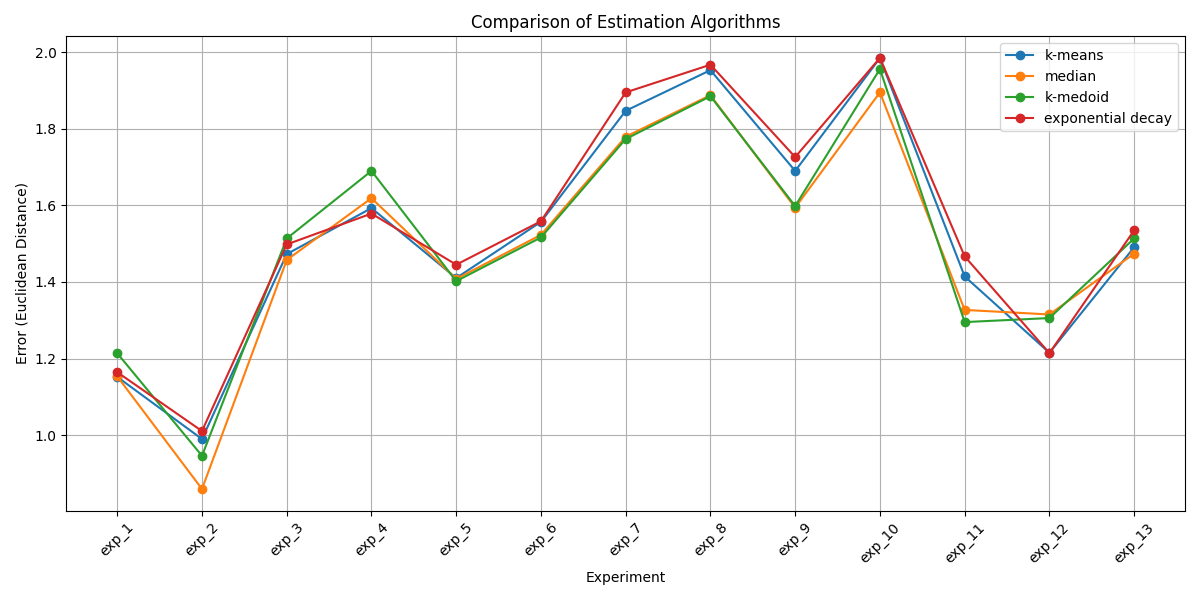
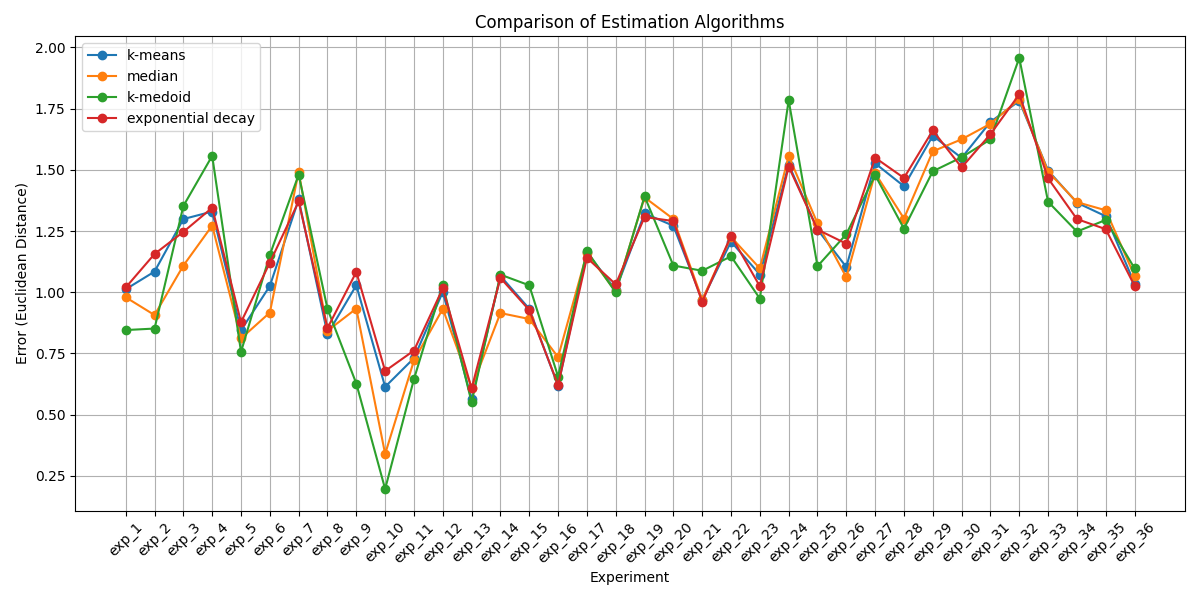
more graphs

diff --git a/pi-outserver/data_analysis_2/plotter.py b/pi-outserver/data_analysis_2/plotter.py
@@ -62,37 +62,83 @@ def run_all_algorithms(exp_dir, k=4, alpha=0.7, prev=None):
 
     return errors
 
-
-def plot_just_weighted(exp_dir, k=4):
-    """
-    Runs exponential decay (weighted mean) with varying P values from 1 to 4.
-    Plots error for each P.
-    """
+# experiment vs particular k or alpha
+def plot_weighted_error_vs_experiment(experiments, k=4, alpha=0.7):
     errors = {}
-    Ps = [1, 2, 3, 4]
 
-    for P in Ps:
+    for exp_dir in experiments:
         try:
-            estimate_weights, device = assign_weights_rssi(exp_dir, P=P)
+            estimate_weights, device = assign_weights_rssi(exp_dir, k=k, alpha=alpha)
             pred = weighted_mean(estimate_weights)
             err = distance(pred, device)
-            print(f"P={P}: Error = {err:.3f}")
-            errors[P] = err
+            print(f"{exp_dir}: Error = {err:.3f}")
+            errors[exp_dir] = err
         except Exception as e:
-            print(f"{exp_dir} - P={P} failed: {e}")
-            errors[P] = None
+            print(f"{exp_dir} failed: {e}")
+            errors[exp_dir] = None
+
+    # Prepare for plotting
+    valid_exps = [exp for exp in errors if errors[exp] is not None]
+    valid_errs = [errors[exp] for exp in valid_exps]
 
     # Plotting
-    plt.figure(figsize=(8, 5))
-    plt.plot(list(errors.keys()), list(errors.values()), marker='o', color='purple', label='Exponential Decay')
-    plt.title(f"Error vs P for Weighted Mean - {exp_dir}")
-    plt.xlabel("P value")
+    plt.figure(figsize=(12, 6))
+    plt.bar(valid_exps, valid_errs, color='darkorange')
+    plt.xticks(rotation=45)
+    plt.xlabel("Experiment")
     plt.ylabel("Error (Euclidean Distance)")
-    plt.grid(True)
-    plt.legend()
+    plt.title(f"Exponential Decay Error per Experiment (k={k}, alpha={alpha})")
+    plt.grid(True, axis='y')
     plt.tight_layout()
-    plt.savefig(f"weighted_error_{exp_dir}.png")
+    plt.savefig(f"graphset3/weighted_bar_k{k}_alpha{alpha}.png")
     plt.show()
+
+# mean of all experiments over multiple k and particular alpha
+def plot_mean_weighted_error_vs_k(experiments, k_range=range(4, 20), alpha=0.4):
+    """
+    Plots a bar graph of mean exponential decay error across all experiments for varying k values.
+
+    Args:
+        experiments (list): List of experiment names (e.g., ["exp_1", "exp_2", ...])
+        k_range (iterable): Range of k values to try (e.g., range(4, 31))
+        alpha (float): Alpha value for exponential decay weighting
+    """
+    mean_errors = {}
+
+    for k in k_range:
+        print(f"Running for k={k}")
+        errors = []
+        for exp_dir in experiments:
+            try:
+                estimate_weights, device = assign_weights_rssi(exp_dir, k=k, alpha=alpha)
+                pred = weighted_mean(estimate_weights)
+                err = distance(pred, device)
+                errors.append(err)
+            except Exception as e:
+                print(f"{exp_dir} failed at k={k}: {e}")
+                continue
+
+        if errors:
+            mean_errors[k] = np.mean(errors)
+        else:
+            mean_errors[k] = None
+
+    # Filter valid ks
+    valid_ks = [k for k in mean_errors if mean_errors[k] is not None]
+    mean_vals = [mean_errors[k] for k in valid_ks]
+
+    # Plotting
+    plt.figure(figsize=(12, 6))
+    plt.bar(valid_ks, mean_vals, color='mediumseagreen')
+    plt.xticks(valid_ks)
+    plt.xlabel("k (Number of Points)")
+    plt.ylabel("Mean Error (Euclidean Distance)")
+    plt.title(f"Mean Exponential Decay Error vs k (alpha={alpha})")
+    plt.grid(True, axis='y')
+    plt.tight_layout()
+    plt.savefig(f"graphset3/mean_weighted_error_vs_k_alpha{alpha}.png")
+    plt.show()
+
 
 def plot_errors(experiments, error_dicts):
     """
@@ -117,7 +163,7 @@ def plot_errors(experiments, error_dicts):
     plt.savefig(f"graphset2/Exponential Decay")
     # plt.show()
 
-def plot_errors_massive(experiments, error_dicts, k, number):
+def plot_errors_detailed(experiments, error_dicts, k, number):
     """
     Plots the line graph comparing algorithm performance.
     """
@@ -137,25 +183,81 @@ def plot_errors_massive(experiments, error_dicts, k, number):
     plt.grid(True)
     plt.legend()
     plt.tight_layout()
-    plt.savefig(f"graphset2/Exponential_Decay{k}_{number}.png")
+    plt.savefig(f"graphset3/Exponential_Decay{k}_{number}.png")
+    # plt.show()
+
+import numpy as np
+
+def plot_mean_std_bar(error_dicts, k, alpha):
+    """
+    Plots bar graphs for mean and std deviation of errors across different methods.
+
+    Args:
+        error_dicts (list of dict): List of {algorithm: error} for each experiment
+        k (int): Value of k used
+        alpha (float): Alpha used in exponential decay
+    """
+    methods = list(error_dicts[0].keys())
+    means = []
+    stds = []
+
+    for method in methods:
+        values = [d.get(method) for d in error_dicts if d.get(method) is not None]
+        means.append(np.mean(values))
+        stds.append(np.std(values))
+
+    x = np.arange(len(methods))
+
+    # --- Plot Mean Error ---
+    plt.figure(figsize=(10, 6))
+    plt.bar(x, means, color='skyblue')
+    plt.xticks(x, methods, rotation=45)
+    plt.ylabel("Mean Error (Euclidean Distance)")
+    plt.title(f"Mean Error per Method (k={k}, alpha={alpha})")
+    plt.tight_layout()
+    plt.savefig(f"graphset3/mean_error_k{k}_alpha{alpha}.png")
+    # plt.show()
+
+    # --- Plot Standard Deviation ---
+    plt.figure(figsize=(10, 6))
+    plt.bar(x, stds, color='salmon')
+    plt.xticks(x, methods, rotation=45)
+    plt.ylabel("Standard Deviation of Error")
+    plt.title(f"Error Std Dev per Method (k={k}, alpha={alpha})")
+    plt.tight_layout()
+    plt.savefig(f"graphset3/std_error_k{k}_alpha{alpha}.png")
     # plt.show()
 
 
+
 if __name__ == "__main__":
-    experiments = [f"exp_{i}" for i in range(1, 14)]
+    experiments = [f"exp_{i}" for i in range(1, 37)]
     dc = {}
-    for k in [4,5]:
-        for alph in [0.1, 0.2, 0.3, 0.4, 0.5, 0.6, 0.7, 0.8, 0.9, 1]:
-            all_errors = []
-            for exp in experiments:
-                print(f"Running {exp}")
-                result = run_all_algorithms(exp, k=k, alpha=alph, prev=None)
-                all_errors.append(result)
-            dc[(k, alph)] = all_errors
-            # plot_just_weighted(exp)
-            plot_errors_massive(experiments, all_errors, k, alph)
+    # for k in [4,5]:
+    #     for alph in [0.1, 0.2, 0.3, 0.4, 0.5, 0.6, 0.7, 0.8, 0.9, 1]:
+    #         all_errors = []
+    #         for exp in experiments:
+    #             print(f"Running {exp}")
+    #             result = run_all_algorithms(exp, k=k, alpha=alph, prev=None)
+    #             all_errors.append(result)
+    #         dc[(k, alph)] = all_errors
+    #         # plot_just_weighted(exp)
+    #         plot_errors_massive(experiments, all_errors, k, alph)
     # print(dc)
-    
-    with open("error_data", "w") as f:
-        for key, val in dc.items():
-            f.write(f"{key}: {val}\n")
+
+
+    all_errors = []
+    k = 5
+    for exp in experiments:
+        print(f"Running {exp}")
+        result = run_all_algorithms(exp, k=k, alpha=0.4, prev=None)
+        all_errors.append(result)
+    # plot_just_weighted(exp)
+    plot_errors_detailed(experiments, all_errors, k, 0.4)
+    plot_mean_std_bar(all_errors, k, 0.4)
+
+    # with open("error_data", "w") as f:
+    #     for key, val in dc.items():
+    #         f.write(f"{key}: {val}\n")
+    plot_mean_weighted_error_vs_k(experiments)
+    # plot_weighted_error_vs_experiment(experiments, 6, 0.4)

diff --git a/pi-outserver/data_analysis_2/algorithms.py b/pi-outserver/data_analysis_2/algorithms.py
@@ -13,6 +13,36 @@ from itertools import combinations
 from scipy.optimize import least_squares
 import random
 
+def sample_random_combinations(iterable, r, n_samples):
+    """
+    Generates n_samples random combinations of size r from iterable,
+    without computing all combinations.
+
+    Args:
+        iterable: Source data (e.g., list of points)
+        r: Size of each combination
+        n_samples: Number of combinations to return
+
+    Returns:
+        List of randomly sampled combinations (each a tuple of r elements)
+    """
+    pool = tuple(iterable)
+    n = len(pool)
+    
+    if r > n:
+        raise ValueError("r must be <= len(iterable)")
+    
+    combinations = []
+    seen = set()
+    
+    while len(combinations) < n_samples:
+        indices = tuple(sorted(random.sample(range(n), r)))
+        if indices not in seen:
+            seen.add(indices)
+            combinations.append(tuple(pool[i] for i in indices))
+    
+    return combinations
+
 # Some globals that we will use
 tx_power_curr = get_transmission_rssi("rssi_1m.csv")
 target_mac = "04:99:bb:d8:6e:2e"
@@ -63,17 +93,18 @@ def get_estimates(points, k):
         k: number of points per subset (k >= 4)
         
     Returns:
-        np.ndarray of estimated positions
+        np.ndarray of estimated positionsc
     """
     if k < 4:
         raise ValueError("k must be at least 4 for 3D trilateration.")
     if len(points) < k:
         raise ValueError("Not enough points to select k from.")
 
-    all_combinations = list(combinations(points, k))
-    print(len(all_combinations))
-    random.shuffle(all_combinations)
-    sampled_combinations = all_combinations[:3000] 
+    # all_combinations = list(combinations(points, k))
+    # print(len(all_combinations))
+    # sampled_combinations = random.sample(all_combinations, 4000)
+    print("sampling 4000 data points")
+    sampled_combinations = sample_random_combinations(points, k, 4000)
 
     estimates = []
     for subset in sampled_combinations:

diff --git a/pi-outserver/data_analysis_2/data_cleaner.py b/pi-outserver/data_analysis_2/data_cleaner.py
@@ -68,7 +68,7 @@ def get_device_coordinates(device_df, target_mac=None):
     return (x, y, z)
 
 
-def map_rssi_coords(coordinates_df, rssi_df, tx, window_size=1.0):
+def map_rssi_coords(coordinates_df, rssi_df, tx, window_size=0.5):
     rssi_vals = rssi_df.copy()
     coords = coordinates_df.copy()
     rssi_vals['timestamp'] = pd.to_numeric(rssi_vals['timestamp'], errors='coerce')
@@ -97,7 +97,7 @@ def map_rssi_coords(coordinates_df, rssi_df, tx, window_size=1.0):
         if current_window:
             median_rssi = np.mean(current_window)
             # distance = path_loss_dist(median_rssi, tx)
-            if median_rssi < -70:
+            if median_rssi < -80:
                 continue
             rssi_mapped.append((x, y, z, median_rssi))
 
@@ -105,7 +105,7 @@ def map_rssi_coords(coordinates_df, rssi_df, tx, window_size=1.0):
 
     return rssi_mapped
 
-def map_distance_coords(coordinates_df, rssi_df, tx, window_size=1.0):
+def map_distance_coords(coordinates_df, rssi_df, tx, window_size=0.5):
     rssi_vals = rssi_df.copy()
     coords = coordinates_df.copy()
     rssi_vals['timestamp'] = pd.to_numeric(rssi_vals['timestamp'], errors='coerce')
@@ -134,7 +134,7 @@ def map_distance_coords(coordinates_df, rssi_df, tx, window_size=1.0):
         if current_window:
             median_rssi = np.median(current_window)
             distance = path_loss_dist(median_rssi, tx)
-            if distance > 4:
+            if distance > 6:
                 continue
             rssi_mapped.append((x, y, z, distance))
 

diff --git a/pi-outserver/data_analysis_2/spatial_manager.py b/pi-outserver/data_analysis_2/spatial_manager.py
@@ -177,15 +177,15 @@ if __name__ == "__main__":
     answers = []
     prev = None
     it = True
-    for i in range(1, 14):
+    for i in range(1, 36):
         try:
             experiment = f"exp_{i}"
             print(experiment)
-            estimate_weights, device = assign_weights_rssi(experiment, 4)
+            estimate_weights, device = assign_weights_rssi(experiment, 5)
             pred = weighted_mean(estimate_weights)
             # pred, device = get_exponential_decay(experiment)
             e1 = distance(device, pred)
-            print(f"Error to actual device: {e1}")
+            print(f"Error: {e1}")
 
             # Get the surface voxel closest to prediction
             # _, _, voxel_set = setup_experiment_with_mesh(experiment)
